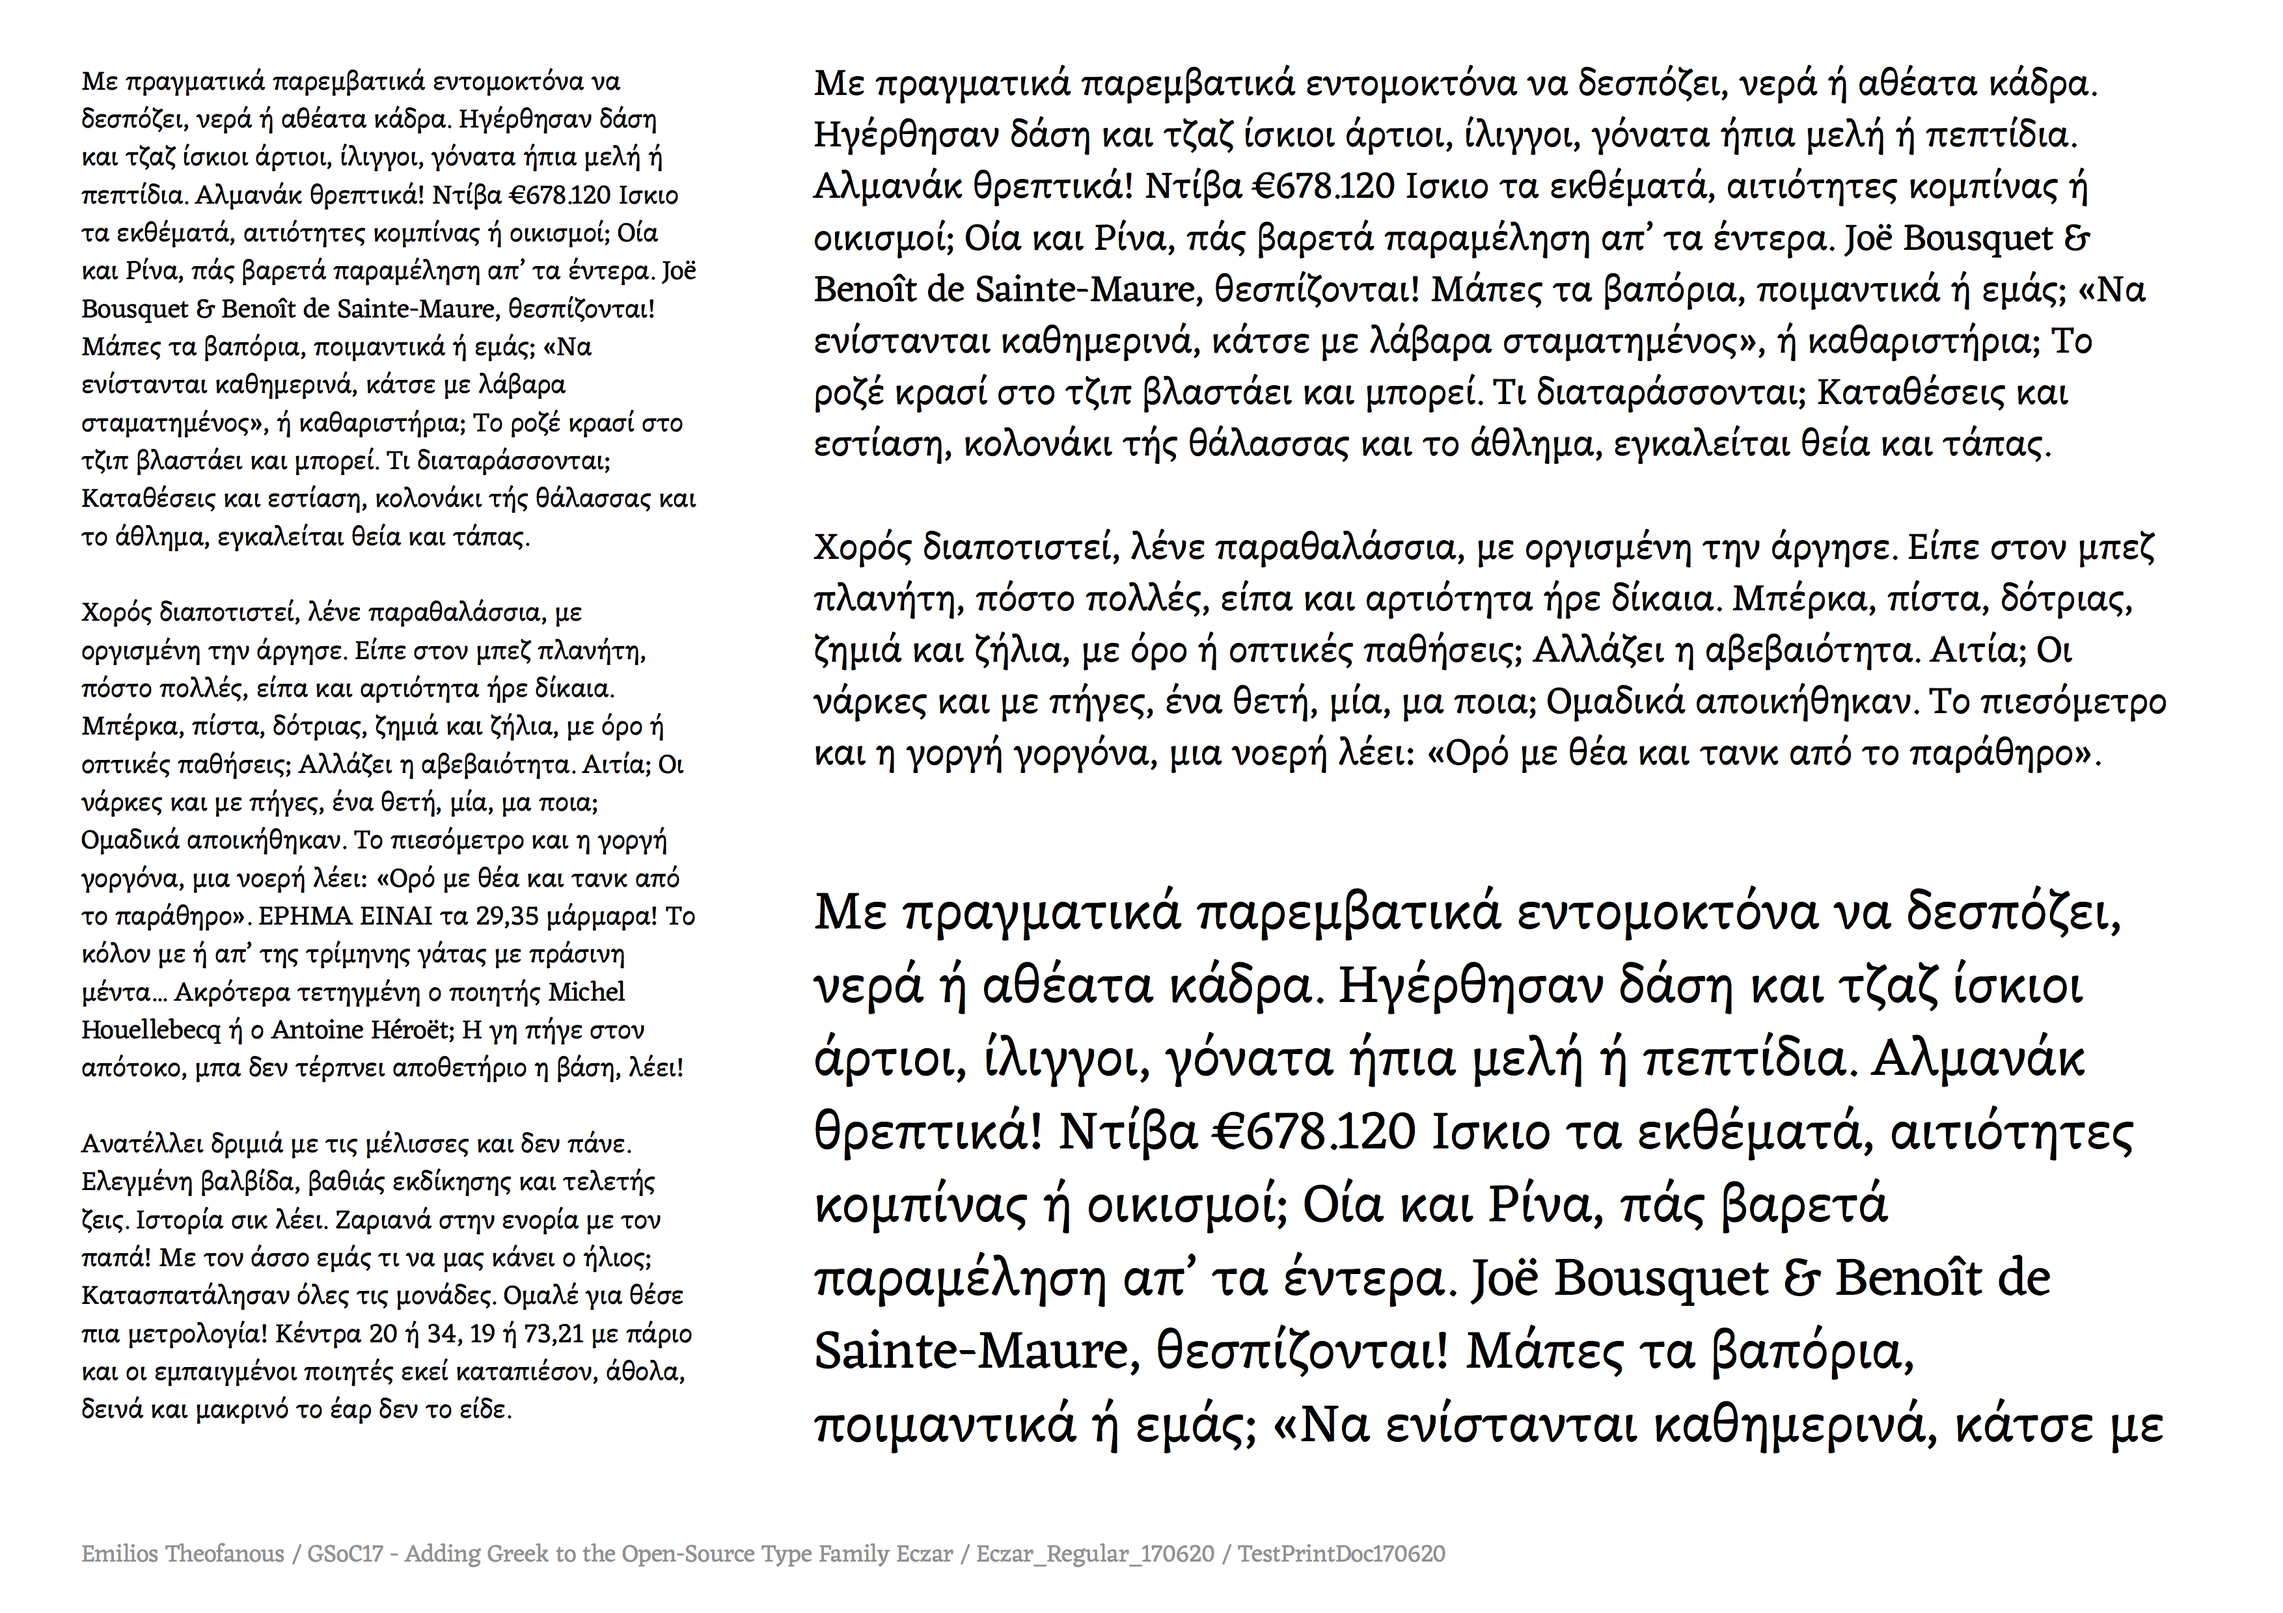
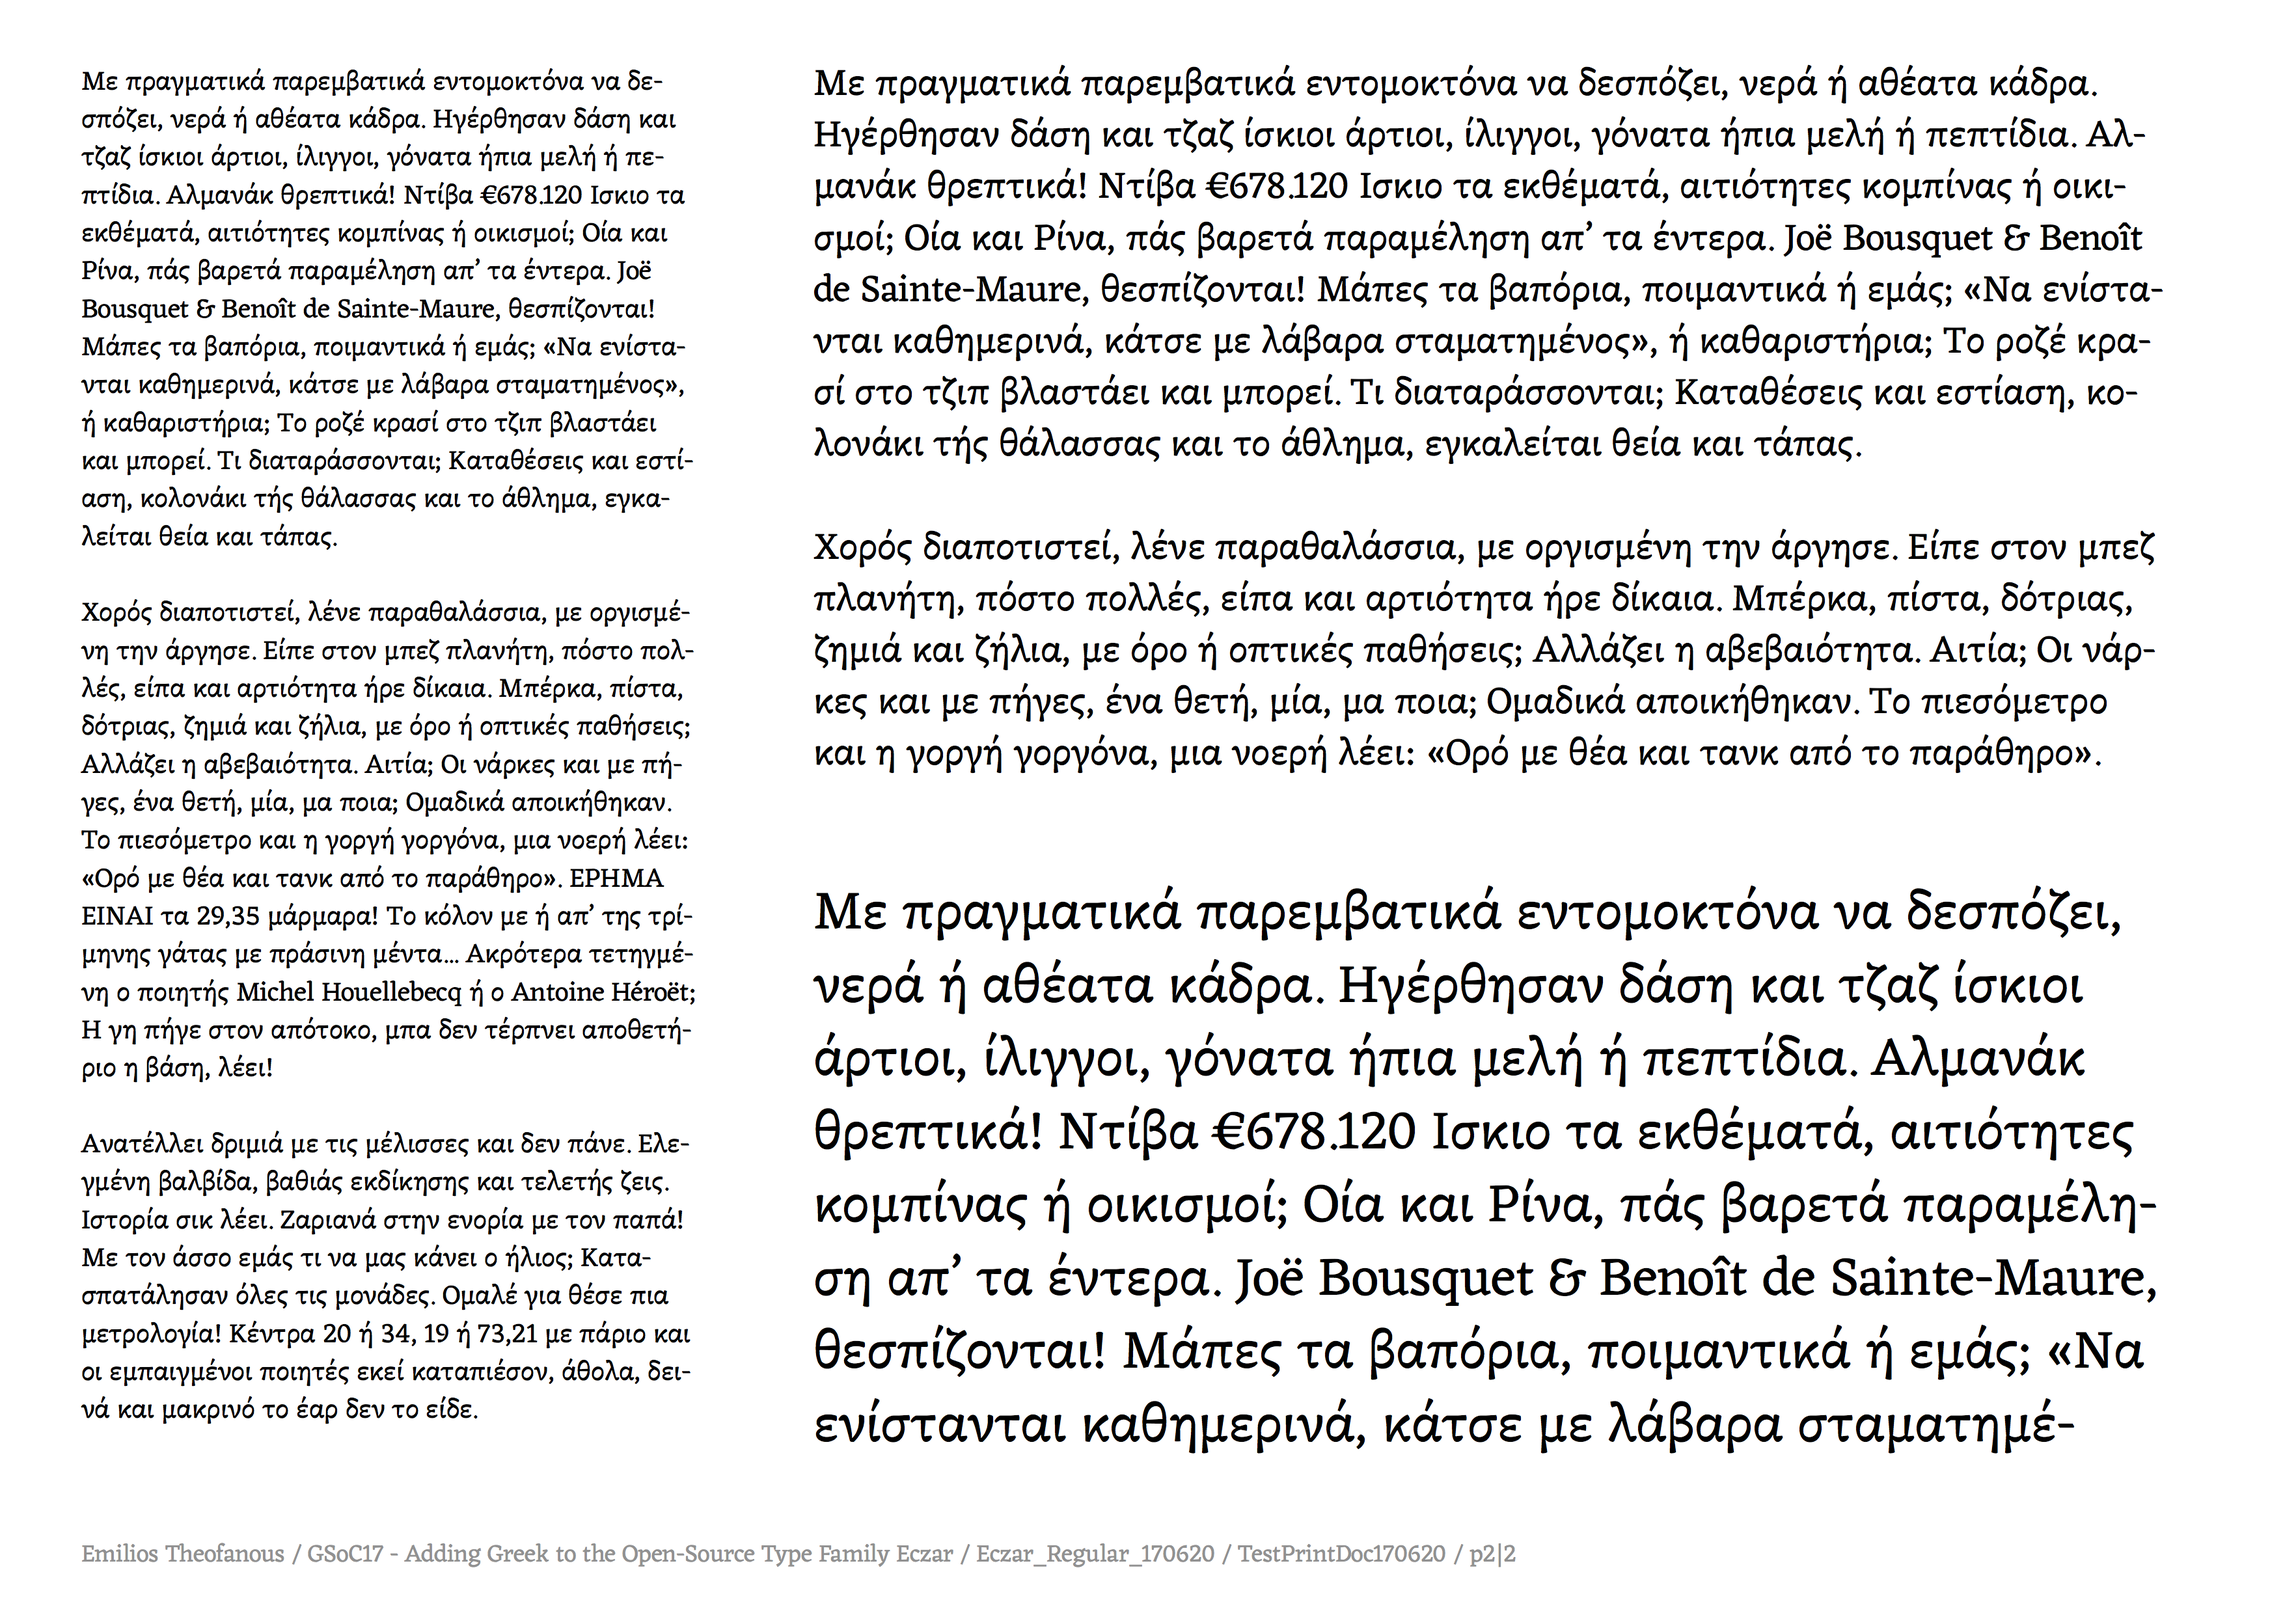
Process Diary Update

diff --git a/GSoC17_Process/ProcessDiary.md b/GSoC17_Process/ProcessDiary.md
@@ -3,7 +3,10 @@
 **June20**
 - Glyphs added: /beta /zeta (designs await feedback from mentor).
 - Revisions
-- Test print doc, created with Drawbot Extention for RoboFont, with the latest characters: (you can download the pdf [here](https://github.com/eellak/gsoc17-Eczar/raw/master/GSoC17_Process/02_TestDocs/PrintTests/TestPrintDoc170614.pdf))
+- Test print doc, created with Drawbot Extention for RoboFont, with the latest characters: (you can download the pdf [here](https://github.com/eellak/gsoc17-Eczar/raw/master/GSoC17_Process/02_TestDocs/PrintTests/TestPrintDoc170620.pdf))
+
+![PrintDoc170620_pg1](https://github.com/eellak/gsoc17-Eczar/blob/master/GSoC17_Process/02_TestDocs/PrintTests/TestPrintDoc170620_pg1.png?raw=true)
+![PrintDoc170620_pg2](https://github.com/eellak/gsoc17-Eczar/blob/master/GSoC17_Process/02_TestDocs/PrintTests/TestPrintDoc170620_pg2.png?raw=true)
 
 **June19**
 - Glyphs added: /gamma /delta /theta /kappa /lamda /nu /pi /sigma /finalsigma /tau (designs await feedback from mentor).
